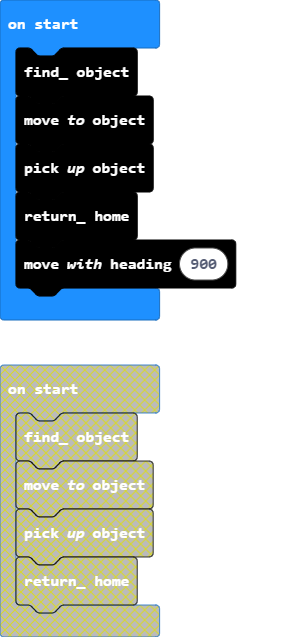
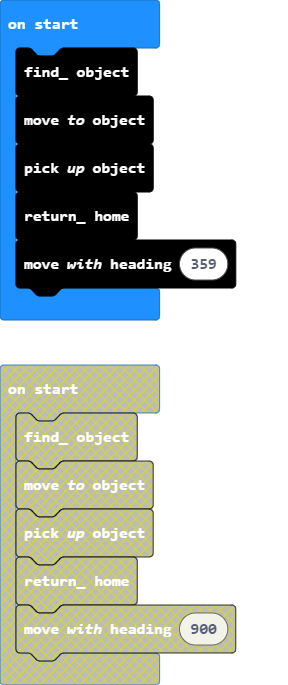
Update main.blocks, main.ts, custom.ts

diff --git a/custom.ts b/custom.ts
@@ -50,13 +50,12 @@ namespace MTS_Sphero_RVR {
     export function Move_To_Object(): void {
         Husky_Centre();
         Open_Gripper();
-        while(!Sonar_Activate()){
+        while(!Sonar_Object_Detected()){
             Move_Fast();
         }
         while(!Sonar_Pick_Up()){
             Move_Slow();
         }
-
     }
 
     /**
@@ -78,9 +77,6 @@ namespace MTS_Sphero_RVR {
     export function Drop_Object(): void {
         Open_Gripper()
     }
-
-
-
 
     /**
      * The RVR will return back to its starting position. 
@@ -154,8 +150,31 @@ namespace MTS_Sphero_RVR {
     //% blockGap=8
     //% block
     //% heading.min=0 heading.max=359
-    export function Move_With_Heading(heading: number): void {
+    export function Move_Forward_With_Heading(heading: number): void {
         sphero.drive(40, heading)
+    }
+
+    /**
+     * The RVR will move in the heading specified. 
+     */
+    //% group="MTS_Movement"
+    //% blockGap=8
+    //% block
+    //% heading.min=0 heading.max=359
+    export function Move_Backward(): void {
+        sphero.drive(-40, 0)
+    }
+
+
+    /**
+     * The RVR will stop.  
+     */
+    //% group="MTS_Movement"
+    //% blockGap=8
+    //% block
+    //% heading.min=0 heading.max=359
+    export function Stop(): void {
+        sphero.drive(0, 0)
     }
 
     /**
@@ -204,17 +223,31 @@ namespace MTS_Sphero_RVR {
         }
     }
     /**
-     * The Sonar will return a true value once it detects that the RVR should slow down. 
+     * The Sonar will return a true value once it detects that the RVR should slow down once it detects a collision ahead. 
      */
     //% block
     //% group="MTS_Sonar"
     //% blockGap=8
-    export function Sonar_Activate (): boolean {
+    export function Sonar_Collison_Detected (): boolean {
+    if (grove.measureInCentimeters(DigitalPin.P1) < 15) {
+        return true
+    }
+    return false
+    }
+
+    /**
+     * The Sonar will return a true value once it detects that the RVR should slow once it detects an object. 
+     */
+    //% block
+    //% group="MTS_Sonar"
+    //% blockGap=8
+    export function Sonar_Object_Detected (): boolean {
     if (grove.measureInCentimeters(DigitalPin.P1) < 25) {
         return true
     }
     return false
     }
+
     /**
      * The RVR Gripper will open. 
      */

diff --git a/main.ts b/main.ts
@@ -2,4 +2,4 @@ MTS_Sphero_RVR.Find_Object()
 MTS_Sphero_RVR.Move_To_Object()
 MTS_Sphero_RVR.Pick_Up_Object()
 MTS_Sphero_RVR.Return_Home()
-MTS_Sphero_RVR.Move_With_Heading(900)
+
